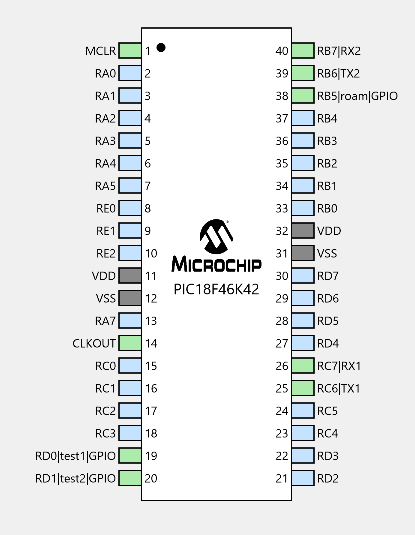
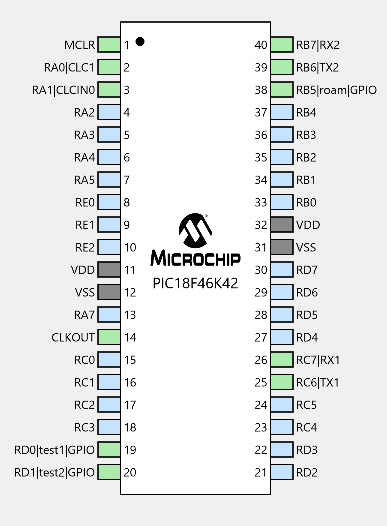
updates to images in readme

Changed region(s): [[0.031, 0.0304, 0.9612, 0.943]]

diff --git a/README.md b/README.md
@@ -2,6 +2,7 @@
     board](#expansion-of-pololu-3pi-robot-with-xpress-board)
       - [Xpress Board Features](#xpress-board-features)
           - [Pins Used](#pins-used)
+          - [Timer Setup](#timer-setup)
           - [Memory Needed to Store Data and
             Resolution](#memory-needed-to-store-data-and-resolution)
       - [Pololu 3Pi robot](#pololu-3pi-robot)
@@ -59,7 +60,25 @@ or PIC18F4525.
   - roam input used to determine if robot should
     1.  Stay in place (perhaps for programming)
     2.  Roam (perhaps following a line)
-  - PWM output at about 1 KHz on pad RC4 (set to 10% duty cycle)
+  - CLC1 output is the same as the T0\_overflow. The signal was made an
+    output so that it can be mesured on a scope or with a DMM. In this
+    case the CLC does not change the signal but simply makes it
+    available on a PIN.
+
+![](images/CLC1-TMR0out.png)
+
+### Timer Setup
+
+#### TMR0
+
+![](images/TMR0.png)
+
+The TMR0\_Overflow Rate varies a bit from robot to robot but is about
+2.0 KHz
+
+#### TMR1
+
+![](images/TMR1.png)
 
 ### Memory Needed to Store Data and Resolution
 

diff --git a/README.pandoc.md b/README.pandoc.md
@@ -24,7 +24,22 @@ is also less expensive than the USB to serial board we have used in the past wit
 * roam input used to determine if robot should
     1. Stay in place (perhaps for programming)
 	2. Roam (perhaps following a line)
-* PWM output at about 1 KHz on pad RC4 (set to 10% duty cycle)
+* CLC1 output is the same as the T0_overflow. The signal was made an output so that it can be mesured on a scope or with a DMM.
+  In this case the CLC does not change the signal but simply makes it available on a PIN.
+  
+![](images/CLC1-TMR0out.png)
+
+### Timer Setup
+
+#### TMR0
+
+![](images/TMR0.png)
+
+The TMR0_Overflow Rate varies a bit from robot to robot but is about 2.0 KHz
+
+#### TMR1
+
+![](images/TMR1.png)
 
 ### Memory Needed to Store Data and Resolution
 
